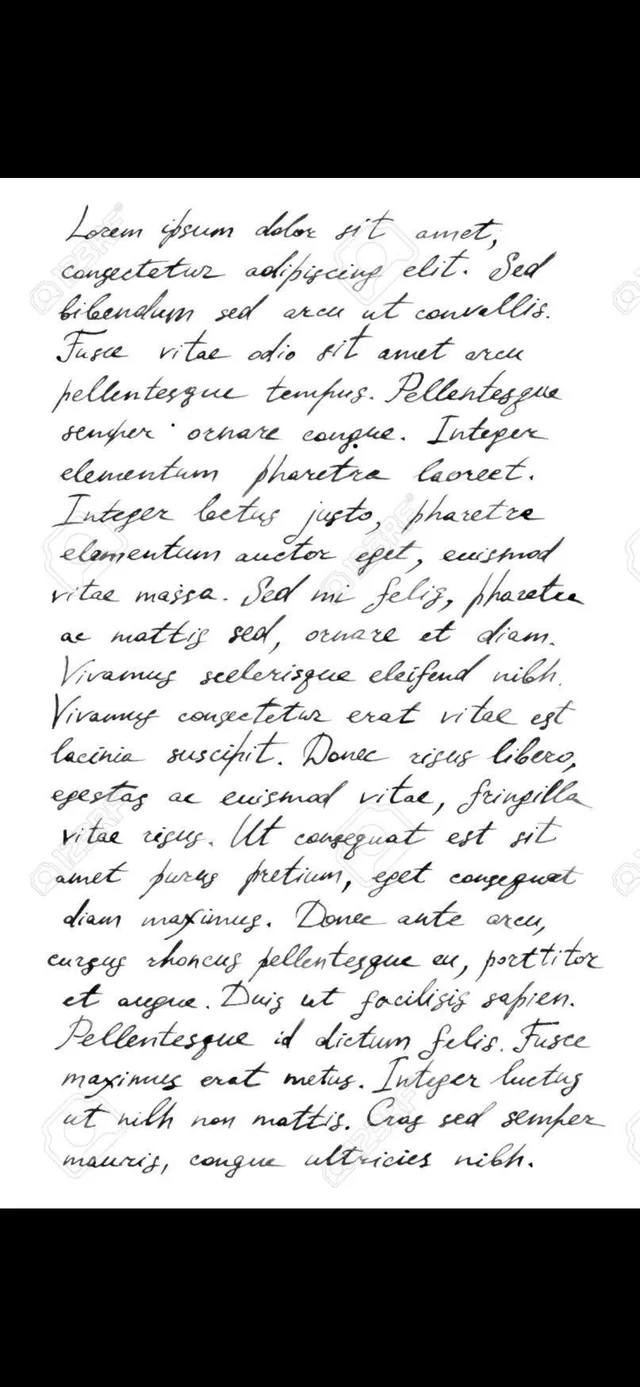
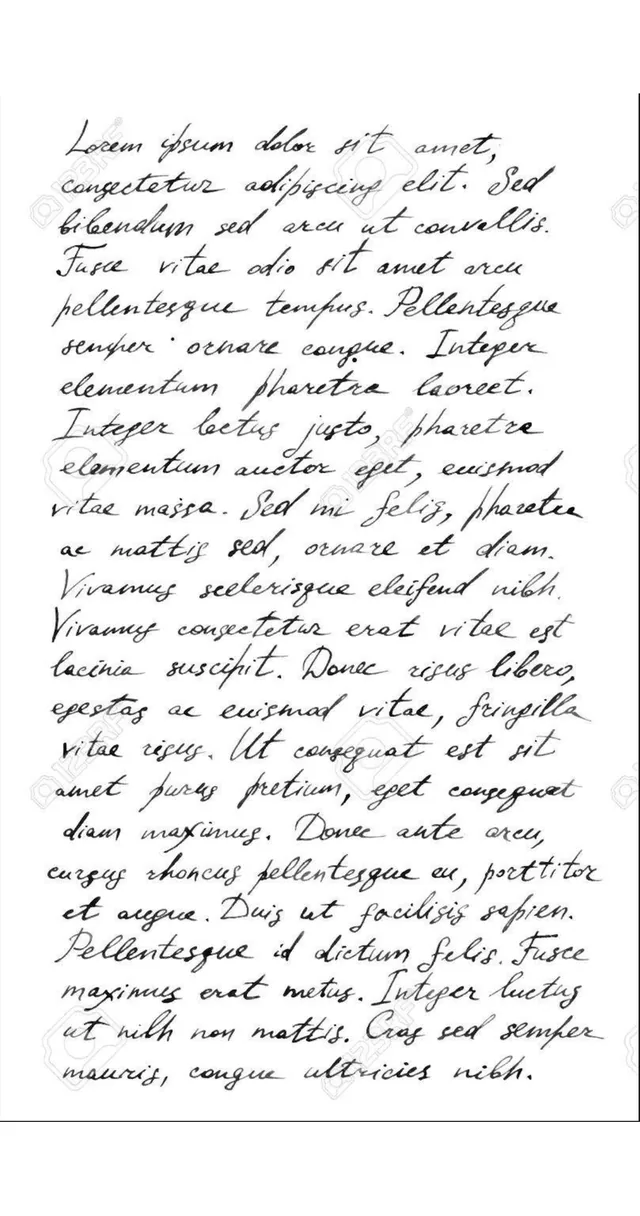
Updates before and after

diff --git a/clearpage.html b/clearpage.html
@@ -86,8 +86,8 @@
             <p class="ba-intro" data-i18n="cp.ba.intro">The same page, before and after. Drag the handle to wipe the original clean and reveal how ClearPage reshapes it.</p>
             <div class="ba">
                 <div class="ba-compare" id="baCompare" style="--pos:50%">
-                    <img class="ba-img ba-before" src="assets/clearpage/before-web.webp" alt="A page of dense, looping cursive that is almost impossible to read, how a confusing page can feel." data-i18n-alt="cp.ba.beforeAlt" width="640" height="1387" loading="lazy">
-                    <img class="ba-img ba-after" src="assets/clearpage/after-web.webp" alt="The same page reshaped by ClearPage: generous spacing, a clear typeface, and color anchors on easily-confused letters." data-i18n-alt="cp.ba.afterAlt" width="640" height="1387" loading="lazy">
+                    <img class="ba-img ba-before" src="assets/clearpage/before-web.webp?v=2" alt="A page of dense, looping cursive that is almost impossible to read, how a confusing page can feel." data-i18n-alt="cp.ba.beforeAlt" width="640" height="1216" loading="lazy">
+                    <img class="ba-img ba-after" src="assets/clearpage/after-web.webp?v=2" alt="The same page reshaped by ClearPage: generous spacing, a clear typeface, and color anchors on easily-confused letters." data-i18n-alt="cp.ba.afterAlt" width="640" height="1216" loading="lazy">
                     <div class="ba-divider" aria-hidden="true"><span class="ba-knob">↔</span></div>
                     <input type="range" class="ba-range" id="baRange" min="0" max="100" value="50" step="1" aria-label="Drag to compare the original page with the ClearPage version" data-i18n-aria="cp.ba.aria">
                 </div>

diff --git a/style.css b/style.css
@@ -1823,7 +1823,7 @@ button:focus-visible {
 .ba-compare {
     position: relative;
     width: min(300px, 78vw);
-    aspect-ratio: 1179 / 2556;
+    aspect-ratio: 640 / 1216;
     margin: 0 auto;
     border-radius: 34px;
     overflow: hidden;
